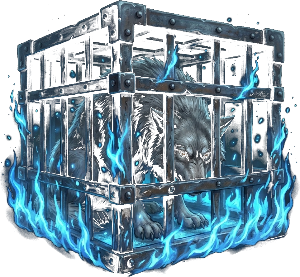
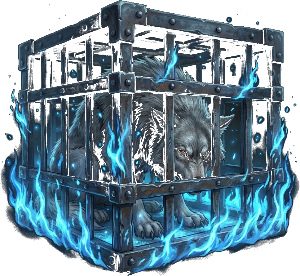
Cage splash definition: re-keyed opaque art + dungeon vignette (light+dark)

diff --git a/index.html b/index.html
@@ -98,7 +98,11 @@
   .fx-wolfwin .splash-head{text-shadow:0 0 18px var(--sc);animation:headGlow 1.2s ease-in-out .3s}
   @keyframes headGlow{0%,100%{opacity:1}50%{opacity:.75;letter-spacing:1px}}
   .fx-wolfwin img,.fx-wolfcage img{height:150px}
-  .fx-wolfcage img{animation:cageSlam .55s cubic-bezier(.55,0,.35,1.35) .35s both}
+  /* dark dungeon vignette behind the cage so the art reads on light AND dark cards */
+  .fx-wolfcage .cagewrap::before{content:'';position:absolute;inset:-4px -22px;border-radius:50%;z-index:0;
+    background:radial-gradient(closest-side,rgba(9,15,28,.94) 40%,rgba(30,80,150,.45) 72%,transparent)}
+  .fx-wolfcage img{position:relative;z-index:1;filter:drop-shadow(0 0 14px rgba(96,178,255,.65));
+    animation:cageSlam .55s cubic-bezier(.55,0,.35,1.35) .35s both}
   @keyframes cageSlam{0%{transform:translateY(-140%);opacity:0}55%{transform:translateY(5%);opacity:1}75%{transform:translateY(-2%)}100%{transform:translateY(0)}}
   .fx-wolfcage.splash-card,.splash-card.fx-wolfcage{animation:spPop .38s cubic-bezier(.2,1.4,.4,1),cageShake .35s .88s}
   @keyframes cageShake{0%,100%{transform:translate(0,0)}20%{transform:translate(-5px,2px)}45%{transform:translate(5px,-2px)}70%{transform:translate(-3px,1px)}}
@@ -233,7 +237,7 @@
 <script>
 'use strict';
 const LS_KEY='wolfGolfV1';
-const BUILD='1784097427';
+const BUILD='1784098773';
 const HOLES=18;
 
 // Built-in courses — data from USGA/GHIN, current ratings and stroke allocations.

diff --git a/sw.js b/sw.js
@@ -1,7 +1,7 @@
 // Wolf service worker — offline cache + auto-update (stale-while-revalidate).
 // The app loads instantly from cache and refreshes in the background; a new
 // version appears the next time it's opened while online.
-const CACHE = 'battletees-1784097427';
+const CACHE = 'battletees-1784098773';
 const CORE = ['./', 'index.html', 'manifest.json', 'icon-180.png', 'icon-512.png', 'banner.jpg', 'wolf.png', 'wolfwin.png', 'wolfcage.png', 'nine.png', 'vegas.png', 'quota.png', 'sixes.png', 'umbrella.png', 'hammer.png', 'bbb.png', 'stroke.png', 'stableford.png', 'bestball.png', 'scramble.png', 'nassau.png', 'skins.png'];
 
 // Safari refuses to let a service worker answer a page load with a response